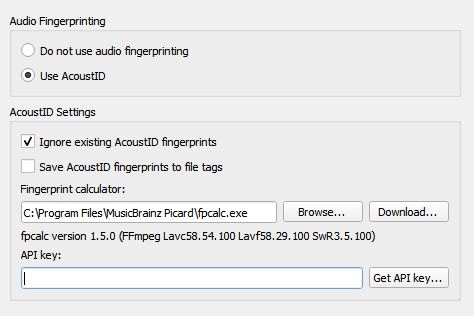
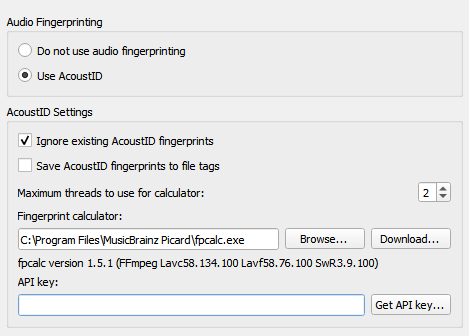
Add new maximum number of concurrent fingerprinting calculations option

diff --git a/config/options_fingerprinting.rst b/config/options_fingerprinting.rst
@@ -33,6 +33,11 @@ MusicBrainz currently supports only `AcoustID <https://musicbrainz.org/doc/Acous
    added as of Picard v2.7 to accommodate use cases such as a workflow where the user adds this tag directly after
    ripping to avoid having to redo the calculation in the future.
 
+**Maximum threads to use for calculator**
+
+   This allows you to specify the maximum number of fingerprint calculations to be run concurrently.  The default
+   value is 2.
+
 **Fingerprint calculator**
 
    This identifies the external program on your system that will be used to calculate the AcoustID
